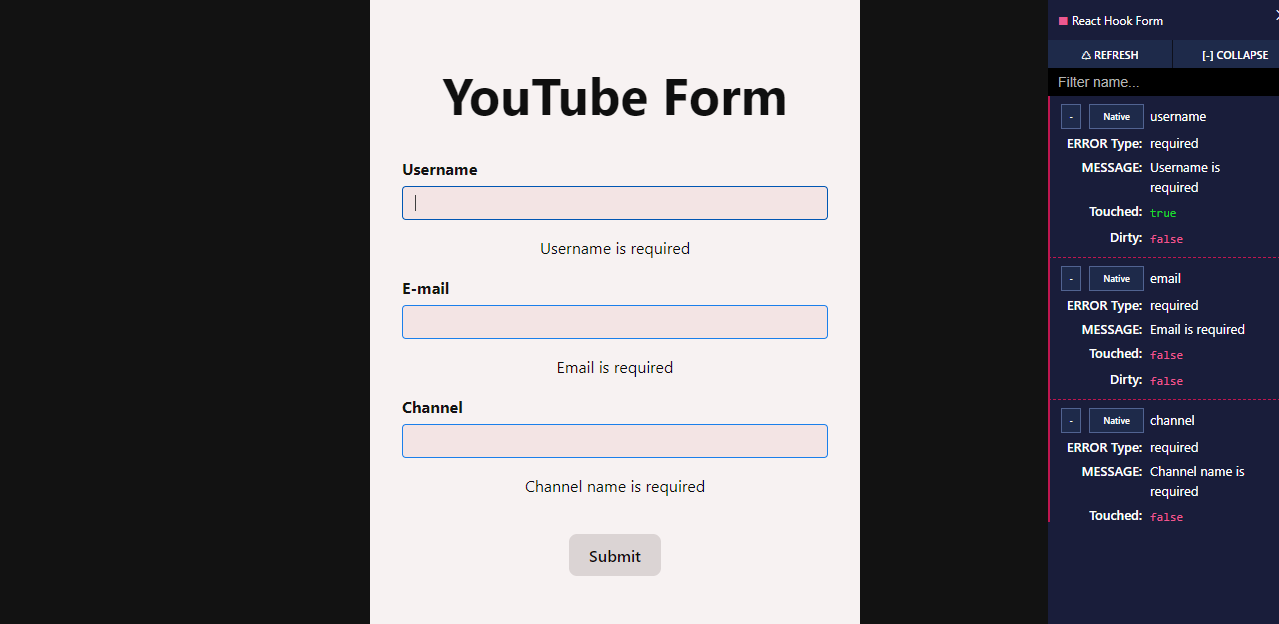
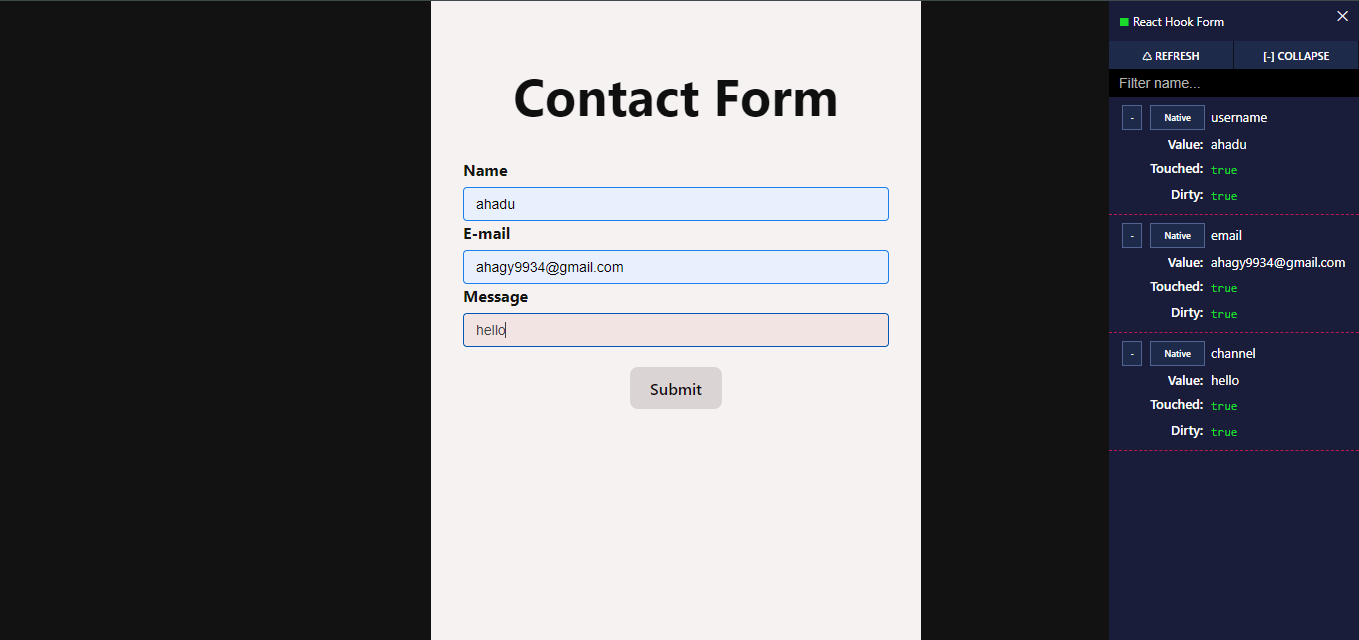
fix the begs

diff --git a/src/components/YouTubeForm.tsx b/src/components/YouTubeForm.tsx
@@ -17,17 +17,17 @@ export const YouTubeForm = () => {
 
   return (
     <div>
-      <h1>YouTube Form</h1>
+      <h1>Contact Form </h1>
       <form onSubmit={handleSubmit(onSubmit)} noValidate>
-        <label htmlFor="username">Username</label>
+        <label htmlFor="Name">Name</label>
         <input
           type="text"
           id="username"
           {...register("username", {
-            required: "Username is required",
+            required: "name is required",
             validate: (value) => 
               value.includes("admin")
-                ? "Username cannot contain 'admin'"
+                ? "name cannot contain 'admin'"
                 : true,
           })}
         />
@@ -47,21 +47,21 @@ export const YouTubeForm = () => {
         />
         {errors.email && <p>{errors.email.message}</p>}
 
-        <label htmlFor="channel">Channel</label>
+        <label htmlFor="Message">Message </label>
         <input
           type="text"
           id="channel"
           {...register("channel", {
-            required: "Channel name is required",
+            required: " Message  is required",
             validate: {
               noSpace: (value) =>
                 value.trim() !== value
-                  ? "Channel name cannot start or end with a space"
+                  ? "Message  cannot start or end with a space"
                   : true,
               minLength: (value) =>
                 value.length >= 5
                   ? true
-                  : "Channel name must be at least 5 characters long",
+                  : "Message  must be at least 5 characters long",
             },
           })}
         />

diff --git a/README.md b/README.md
@@ -5,7 +5,8 @@ This project demonstrates creating a form using React and TypeScript, showcasing
 
 - Form Validation
 - Form Submission
-- Form State Management using the          - react-hook-form` library
+- Form State Management using the   
+- react-hook-form` library
 
 ### The form includes the following fields:
 
@@ -43,17 +44,25 @@ This project demonstrates creating a form using React and TypeScript, showcasing
 
 
 The Form
-![alt text](image.png)
+
+![alt text](image-5.png)
 
 Form validation 
 
-![alt text](image-1.png)
+![alt text](image-6.png)
+
 
 Validation for invalid email
-![alt text](image-2.png)
+
+![alt text](image-7.png)
+
 
 Error message removed after entering valid data
-![alt text](image-3.png)
-Responsive design
-![alt text](image-4.png)
 
+![alt text](image-1.png)
+
+
+Responsive design
+
+
+![alt text](image-2.png)
